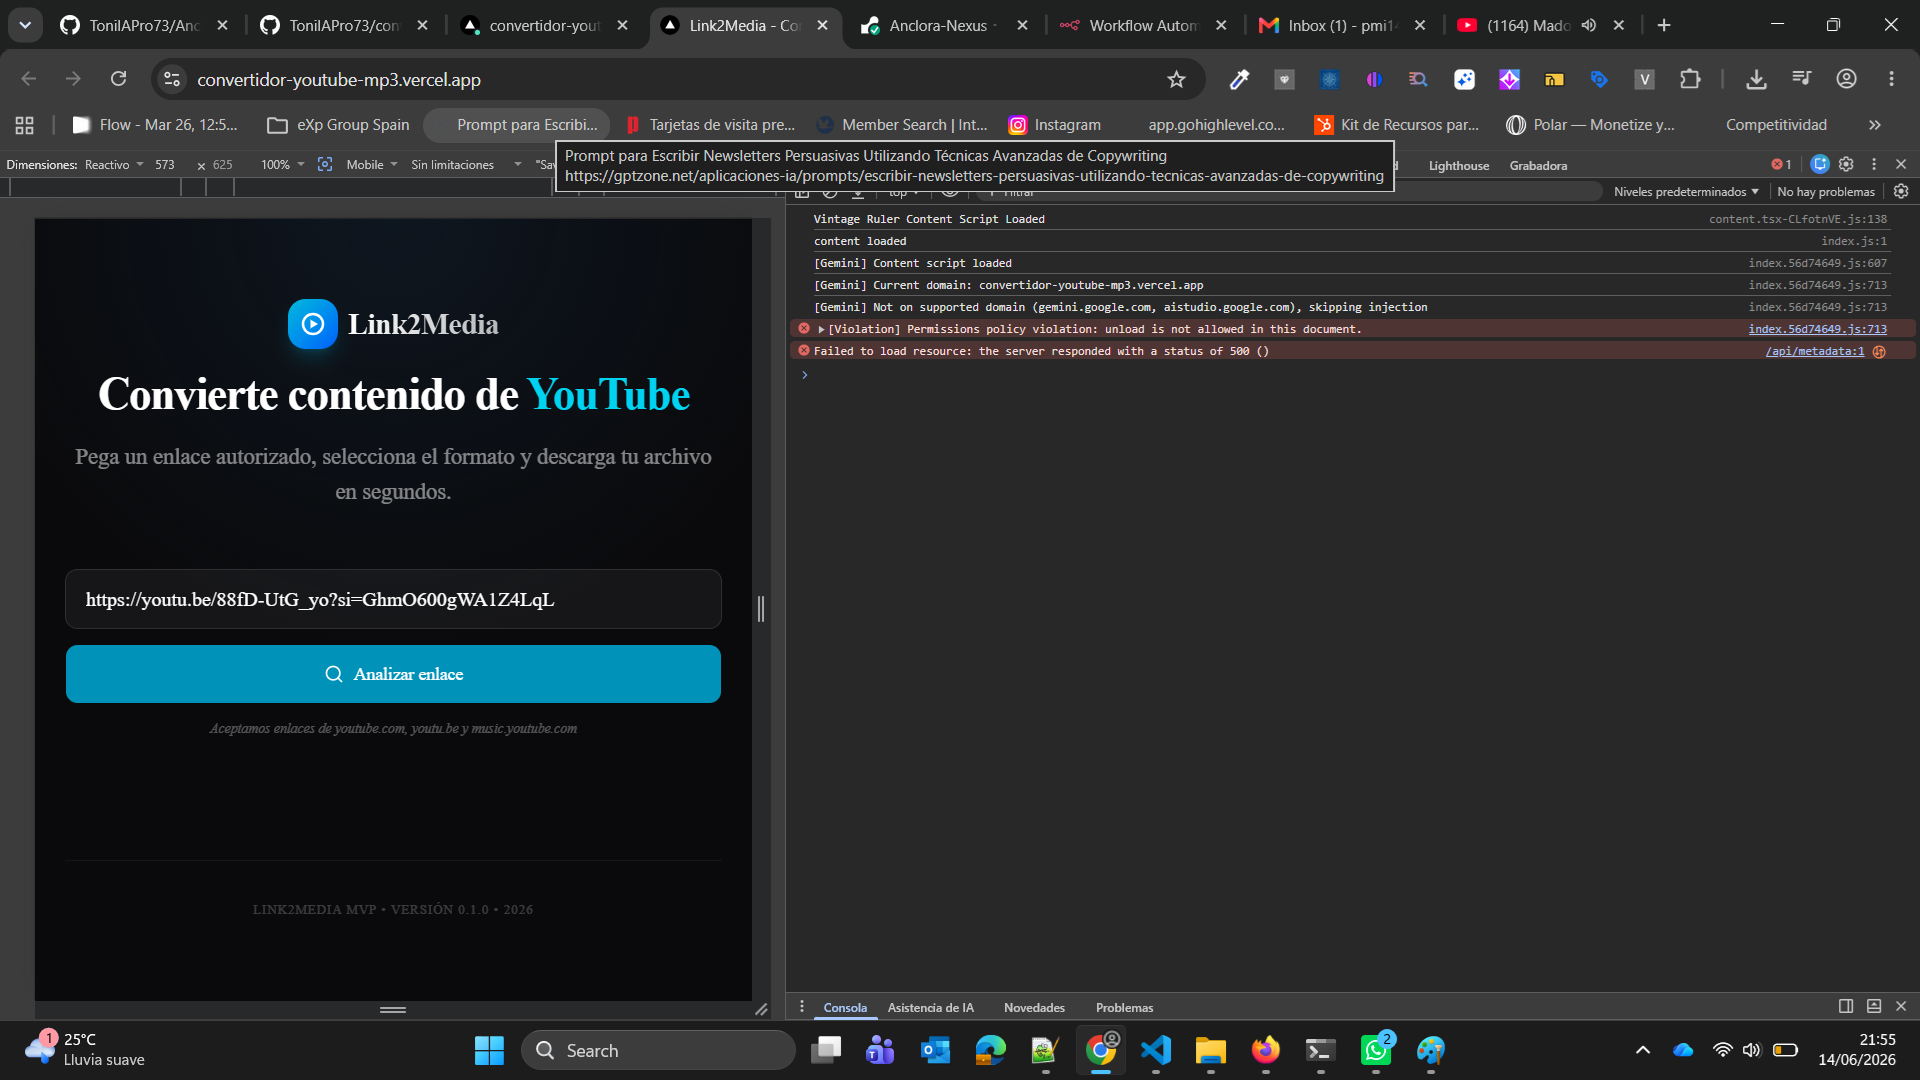
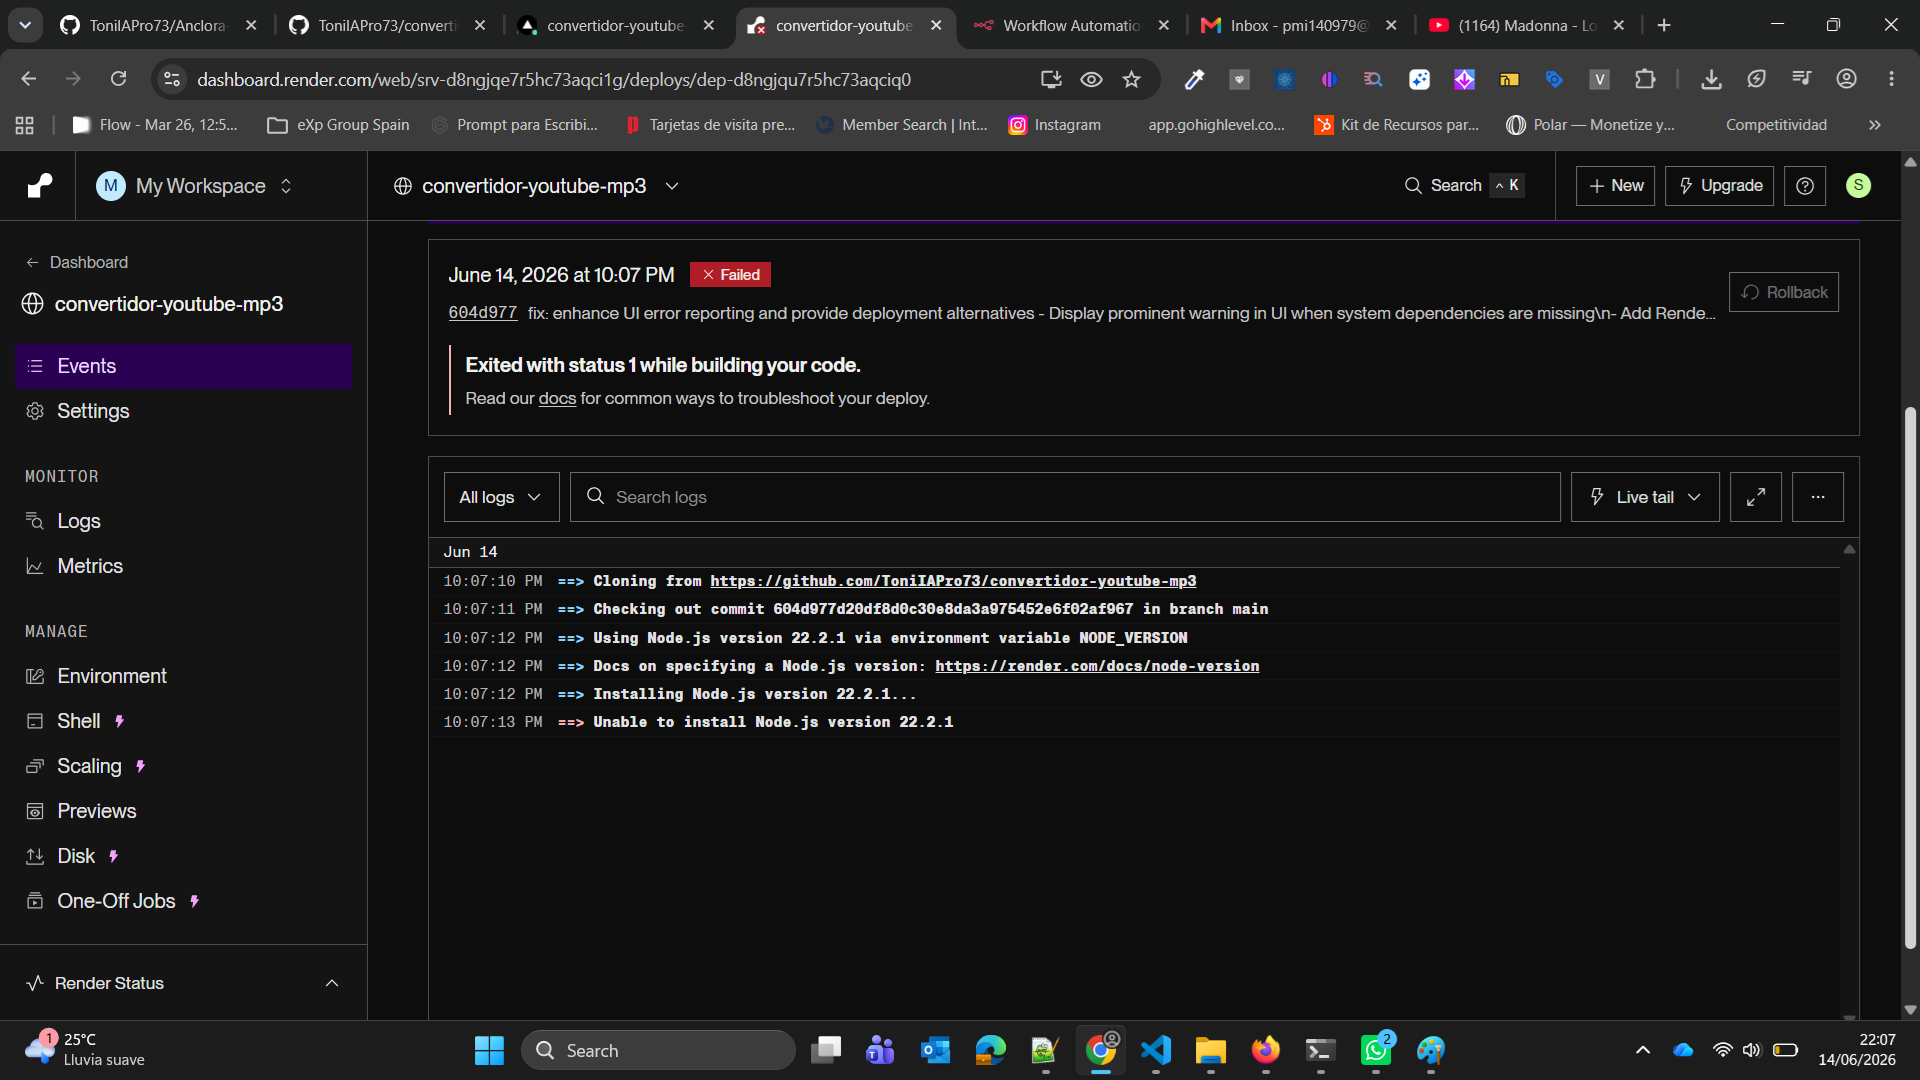
fix: adjust Node.js version and build command for Render compatibility
- Change NODE_VERSION to 20\n- Add engines field to package.json\n- Refine buildCommand in render.yaml to include yt-dlp

diff --git a/src/lib/env.ts b/src/lib/env.ts
@@ -21,7 +21,7 @@ const envSchema = z.object({
   RATE_LIMIT_MAX_METADATA_REQUESTS: z.coerce.number().default(10),
   RATE_LIMIT_MAX_JOB_REQUESTS: z.coerce.number().default(3),
   
-  NODE_ENV: z.enum(["development", "test", "production"]).default("development"),
+  NODE_ENV: z.enum(["development", "test", "production"]).default("production"),
 });
 
 export const env = envSchema.parse(process.env);